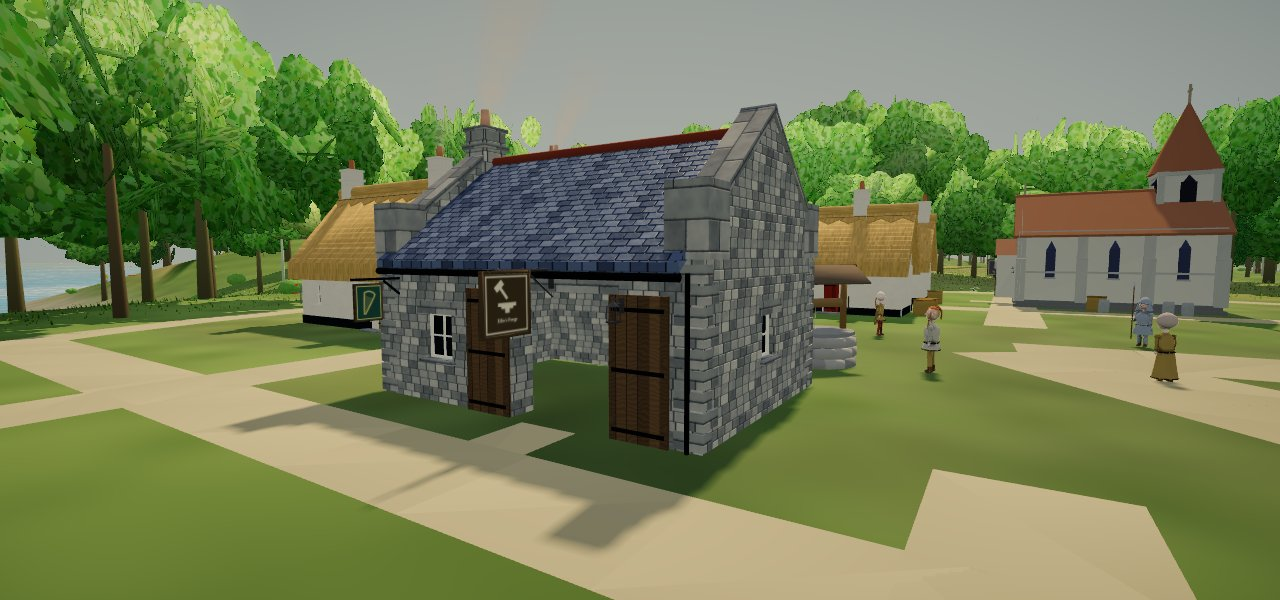
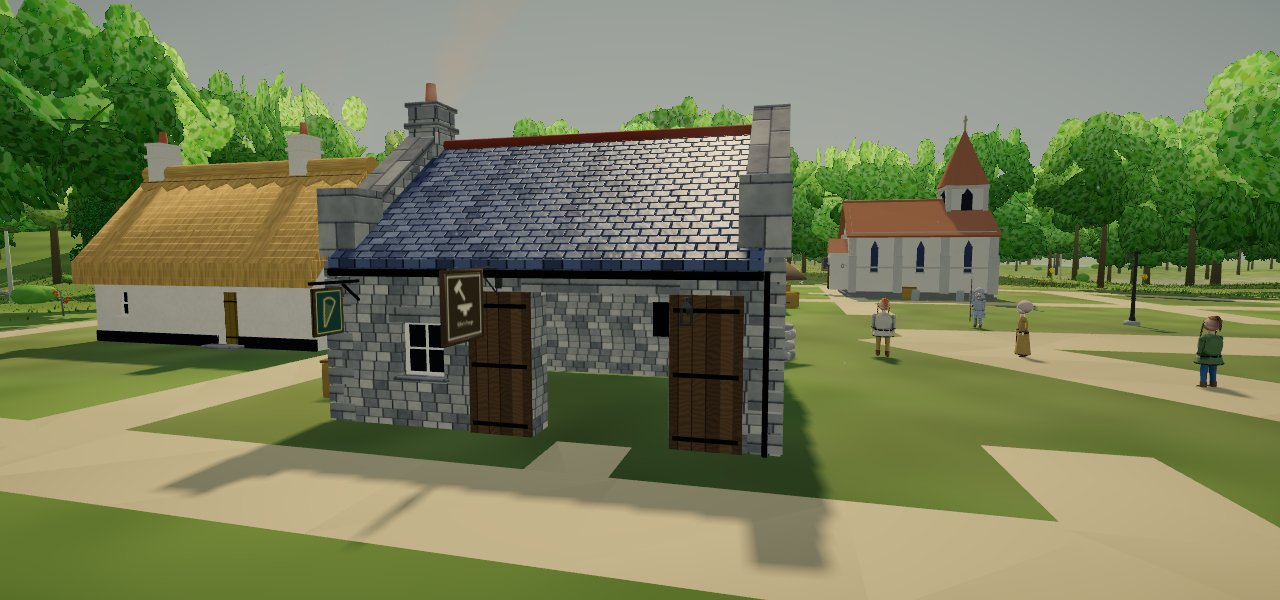
Look: Session 1854 — signs and kittown read the forge's board; the village picture retaken
Claude-Session: https://claude.ai/code/session_019eFMMkcCRFDJzw7iAkwRxV

diff --git a/docs/devlog/1854.md b/docs/devlog/1854.md
@@ -32,7 +32,9 @@ Inside, every forge still opens on the old smithy room (`buildInteriorFor`'s `we
 - `kitlots` had been red on main since the farms came in. Its survey counted a village's farm byre and barn (ids `…_5001`/`…_5002`,
   new-look only, not flagged `farm`) as houses the old look lacks. They are now left out; `kitfarm` measures them.
 - `kittown`'s faces and door checks now know the forge. Its front is sampled away from the open door, and its doorway is checked open.
-- `kittown`'s sign count now includes the forge's harp sign.
+- `kittown`'s sign check compared the kit's sign count, which covers every town built so far, with Dunmore's trades alone. Once Dunmore's
+  smith is a forge, another town's arms merchant paints the extra sign. The trades are now counted over every town built.
+- `signs` looks for a forge's board within 2.6 m of the door, not 2 m, because the board hangs 1.75 m along the wall.
 
 ### Verified (headless Chromium)
 - `kitlots` 1/1 with `--no-retry`. It has one new check: Dunmore's, Vieux Marché's, Cill Beag's, Droichead's and Cœur de Vie's three
@@ -40,7 +42,8 @@ Inside, every forge still opens on the old smithy room (`buildInteriorFor`'s `we
 - `kittown` (KITTOWN_RESULT). Dunmore's forge (`g_dunmore_2`) has its four walls 0.15 m inside its solid, as every kit house does. A ray
   at the door from 1.5 m out goes 3 m and meets nothing.
 - `signs` (SIGNS_RESULT), `townplots` 1/1, `forge` 1/1. `parsecheck` clean.
-- Pictures: `docs/prototypes/kit-forge-village.jpg` (Cill Beag's, 15h) and `kit-forge-dunmore.jpg`.
+- Picture: `docs/prototypes/kit-forge-village.jpg` (Cill Beag's at 15h, the board between the window and the open door, the harp at the
+  corner). Dunmore's stands in a tight row and no camera clear of its neighbour sees its front.
 
 ### Needs eyes
 - **The smith's shop changes face.** In a Gatelands town it was a merchant's house with a glazed shop front, and now it is a low stone
